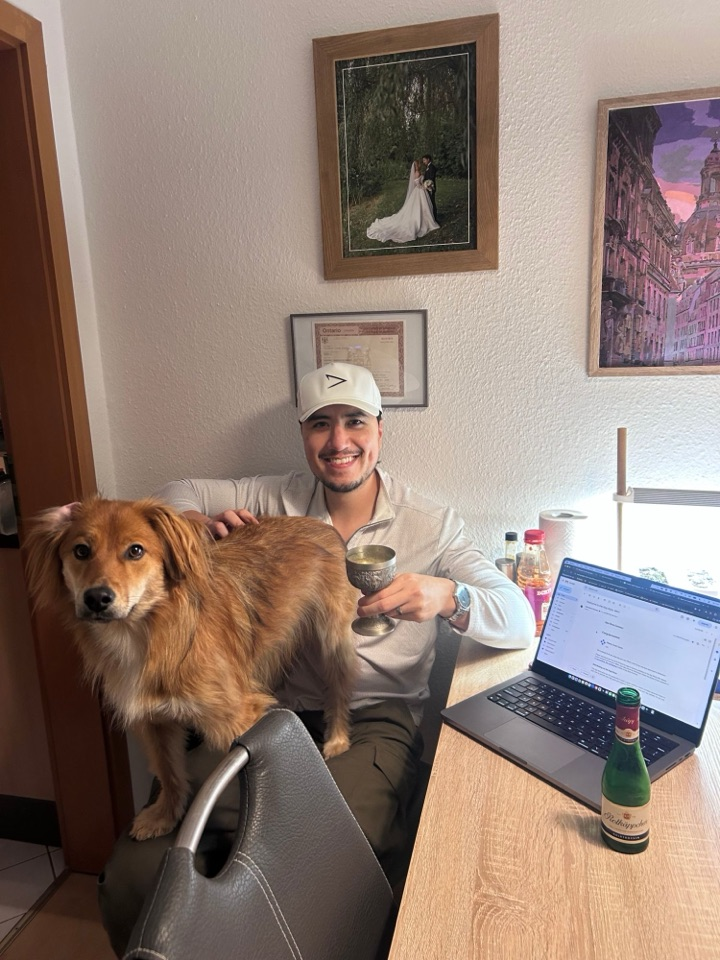
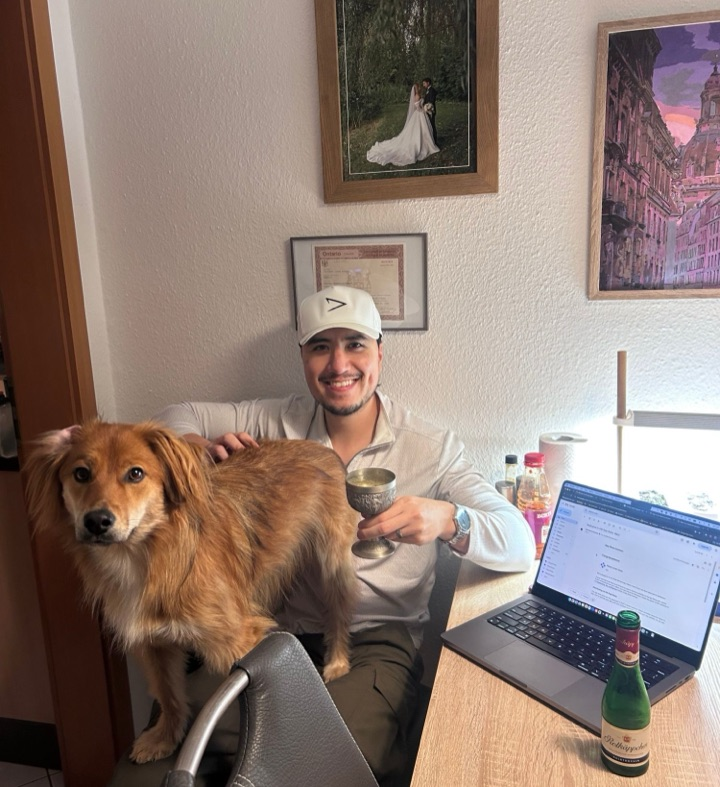
My Summit post: crop the launch-day photo top and bottom

diff --git a/blog/my-summit/index.html b/blog/my-summit/index.html
@@ -237,7 +237,7 @@
         </p>
 
         <figure class="post-photo">
-          <img src="/blog/my-summit/launch-day-klausi.jpg" alt="Dylan at his kitchen table raising a goblet, with Klausi the dog standing on the chair beside him and a laptop open to Apple's approval email." width="720" height="960" loading="lazy">
+          <img src="/blog/my-summit/launch-day-klausi.jpg" alt="Dylan at his kitchen table raising a goblet, with Klausi the dog standing on the chair beside him and a laptop open to Apple's approval email." width="720" height="787" loading="lazy">
           <figcaption>
             Celebratory photo, with &ldquo;co-founder&rdquo; Klausi, after
             receiving Apple&rsquo;s congratulatory email that Risers was
